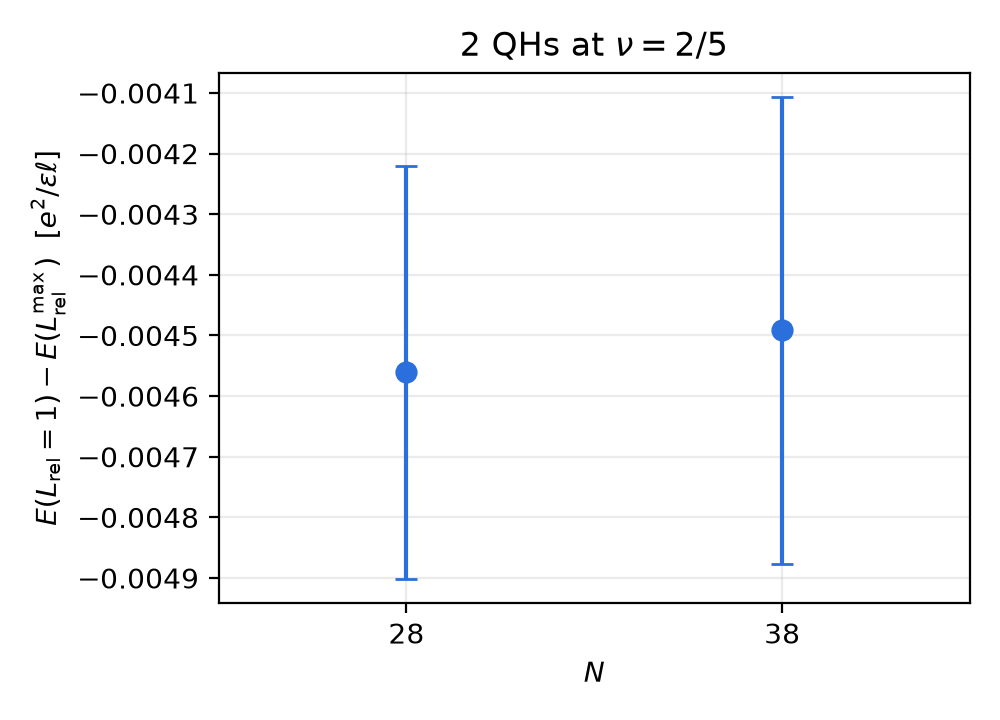
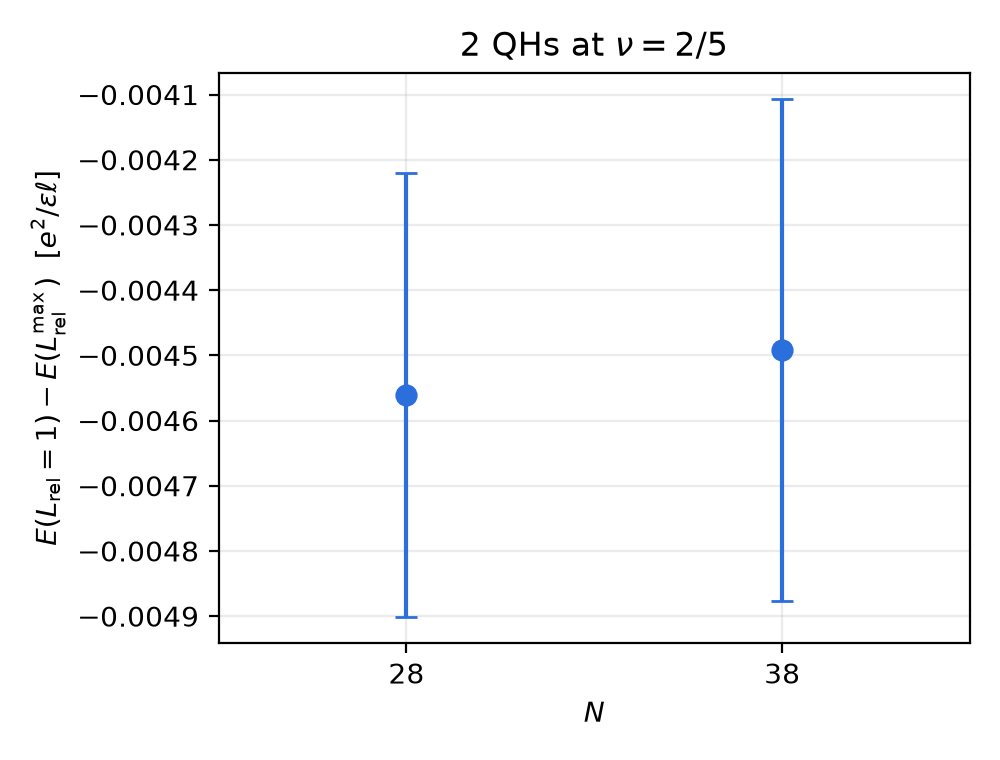
Add a/N + b/sqrt(N) finite-size fit of 2-QH gap at nu=3/7
Generalise the gap-vs-N script to several datasets. For 2 QHs at 3/7
(N=28,43,58,73) fit dE(N) = c + a/N + b/sqrt(N) with MCMC-error weights
and plot the raw and corrected gaps side by side.

Claude-Session: https://claude.ai/code/session_01Q4kL4sDRo411jdjvSjQQB9

diff --git a/analysis/qh_gap_vs_N.py b/analysis/qh_gap_vs_N.py
@@ -1,0 +1,127 @@
+"""E(L_rel=1) - E(L_rel=max) for two quasiholes versus system size N.
+
+For each dataset in DATASETS, reads <dir>/N_particles.csv (columns: L_rel as
+'p//q', energy, MCMC error), computes the gap dE(N) = E(L=1) - E(L_max) and
+plots it vs N.  When there are >= 3 sizes, it also finds a, b minimising the
+(error-weighted) spread of dE(N) - a/N - b/sqrt(N).  That is a weighted
+least-squares fit of dE(N) = c + a/N + b/sqrt(N), where c is the N -> inf gap.
+
+Usage: python3 analysis/qh_gap_vs_N.py
+"""
+import glob
+import os
+import re
+
+import numpy as np
+import matplotlib
+
+matplotlib.use("Agg")
+import matplotlib.pyplot as plt
+
+ROOT = os.path.dirname(os.path.dirname(os.path.abspath(__file__)))
+OUT = os.path.dirname(os.path.abspath(__file__))
+DATASETS = {
+    "2_5": ("2_qhs_2_5_filling_factor_coulomb_dispersion", r"2 QHs at $\nu=2/5$"),
+    "3_7": ("2_qhs_3_7_filling_factor_coulomb_dispersion", r"2 QHs at $\nu=3/7$"),
+}
+BLUE, ORANGE = "#2a6fdb", "#e0701a"
+YLABEL = r"$E(L_{\rm rel}=1)-E(L_{\rm rel}^{\max})$  $[e^2/\epsilon\ell]$"
+
+
+def load(path):
+    L, E, err = [], [], []
+    for line in open(path):
+        if not line.strip():
+            continue
+        l, e, s = [x.strip() for x in line.split(",")]
+        p, q = l.split("//")
+        L.append(int(p) / int(q))
+        E.append(float(e))
+        err.append(float(s))
+    return np.array(L), np.array(E), np.array(err)
+
+
+def gaps(directory):
+    rows = []
+    for path in glob.glob(os.path.join(ROOT, directory, "*_particles.csv")):
+        N = int(re.match(r"(\d+)_particles", os.path.basename(path)).group(1))
+        L, E, err = load(path)
+        i1, imax = np.argmin(np.abs(L - 1)), np.argmax(L)
+        rows.append((N, L[imax], E[i1] - E[imax], np.hypot(err[i1], err[imax])))
+    rows.sort()
+    return [np.array(c) for c in zip(*rows)]
+
+
+def fit(N, y, s):
+    """Weighted LSQ of y = c + a/N + b/sqrt(N). Returns (c, a, b), covariance, chi2."""
+    X = np.column_stack([np.ones_like(N, dtype=float), 1 / N, 1 / np.sqrt(N)])
+    W = 1 / s**2
+    A = X.T @ (X * W[:, None])
+    cov = np.linalg.inv(A)
+    p = cov @ (X.T @ (W * y))
+    chi2 = np.sum(W * (y - X @ p) ** 2)
+    return p, cov, chi2
+
+
+for tag, (directory, title) in DATASETS.items():
+    N, Lmax, gap, gap_err = gaps(directory)
+    print(f"== {title}")
+    for row in zip(N, Lmax, gap, gap_err):
+        print("  N=%3d  L_max=%2g  dE=%+.6f +/- %.6f" % row)
+
+    with open(os.path.join(OUT, f"qh_{tag}_gap_vs_N.csv"), "w") as f:
+        f.write("N,L_max,E(L=1)-E(L_max),error\n")
+        for row in zip(N, Lmax, gap, gap_err):
+            f.write("%d,%g,%.6e,%.6e\n" % row)
+
+    fit_it = len(N) >= 3
+    fig, axes = plt.subplots(1, 2 if fit_it else 1, figsize=(9.6 if fit_it else 5, 3.8),
+                             squeeze=False)
+    ax = axes[0, 0]
+    ax.errorbar(N, gap, yerr=gap_err, fmt="o", ms=7, capsize=4, lw=1.5, color=BLUE)
+    ax.set_ylabel(YLABEL)
+    ax.set_title(title + " (raw)" if fit_it else title)
+
+    if fit_it:
+        (c, a, b), cov, chi2 = fit(N, gap, gap_err)
+        da, db, dc = np.sqrt(cov[1, 1]), np.sqrt(cov[2, 2]), np.sqrt(cov[0, 0])
+        rho = cov[1, 2] / (da * db)
+        corrected = gap - a / N - b / np.sqrt(N)
+        print(f"  a = {a:+.5f} +/- {da:.5f}")
+        print(f"  b = {b:+.5f} +/- {db:.5f}   (corr(a,b) = {rho:+.3f})")
+        print(f"  c = dE(N->inf) = {c:+.6f} +/- {dc:.6f}")
+        print(f"  chi2 = {chi2:.3f} for {len(N) - 3} dof")
+        print(f"  spread (std) raw = {gap.std():.6f}, corrected = {corrected.std():.6f}")
+        for n, y in zip(N, corrected):
+            print(f"    N={n:3d}  dE - a/N - b/sqrt(N) = {y:+.6f}")
+
+        with open(os.path.join(OUT, f"qh_{tag}_gap_fit.txt"), "w") as f:
+            f.write("Fit dE(N) = c + a/N + b/sqrt(N), weighted by MCMC errors\n")
+            f.write(f"a = {a:+.6e} +/- {da:.6e}\n")
+            f.write(f"b = {b:+.6e} +/- {db:.6e}\n")
+            f.write(f"corr(a,b) = {rho:+.4f}\n")
+            f.write(f"c = {c:+.6e} +/- {dc:.6e}\n")
+            f.write(f"chi2 = {chi2:.4f}, dof = {len(N) - 3}\n")
+            f.write("N,dE - a/N - b/sqrt(N)\n")
+            for n, y in zip(N, corrected):
+                f.write(f"{n},{y:.6e}\n")
+
+        Nf = np.linspace(N.min(), N.max(), 200)
+        ax.plot(Nf, c + a / Nf + b / np.sqrt(Nf), color=BLUE, lw=1, alpha=0.5)
+
+        ax2 = axes[0, 1]
+        ax2.errorbar(N, corrected, yerr=gap_err, fmt="s", ms=6, capsize=4, lw=1.5,
+                     color=ORANGE)
+        ax2.axhline(c, color="0.4", lw=1, ls="--")
+        ax2.set_ylabel(r"$\Delta E(N) - a/N - b/\sqrt{N}$  $[e^2/\epsilon\ell]$")
+        ax2.set_title(rf"corrected: $a={a:+.3f}$, $b={b:+.3f}$", fontsize=10.5)
+        ax2.text(0.03, 0.04, rf"$N\to\infty$: ${c:+.4f}\pm{dc:.4f}$",
+                 transform=ax2.transAxes, fontsize=8.5, color="0.3")
+
+    for axi in axes.ravel():
+        axi.set_xlabel(r"$N$")
+        axi.grid(alpha=0.25)
+        axi.set_xticks(N)
+        axi.set_xlim(N.min() - 5, N.max() + 5)
+    fig.tight_layout()
+    fig.savefig(os.path.join(OUT, f"qh_{tag}_gap_vs_N.png"), dpi=200)
